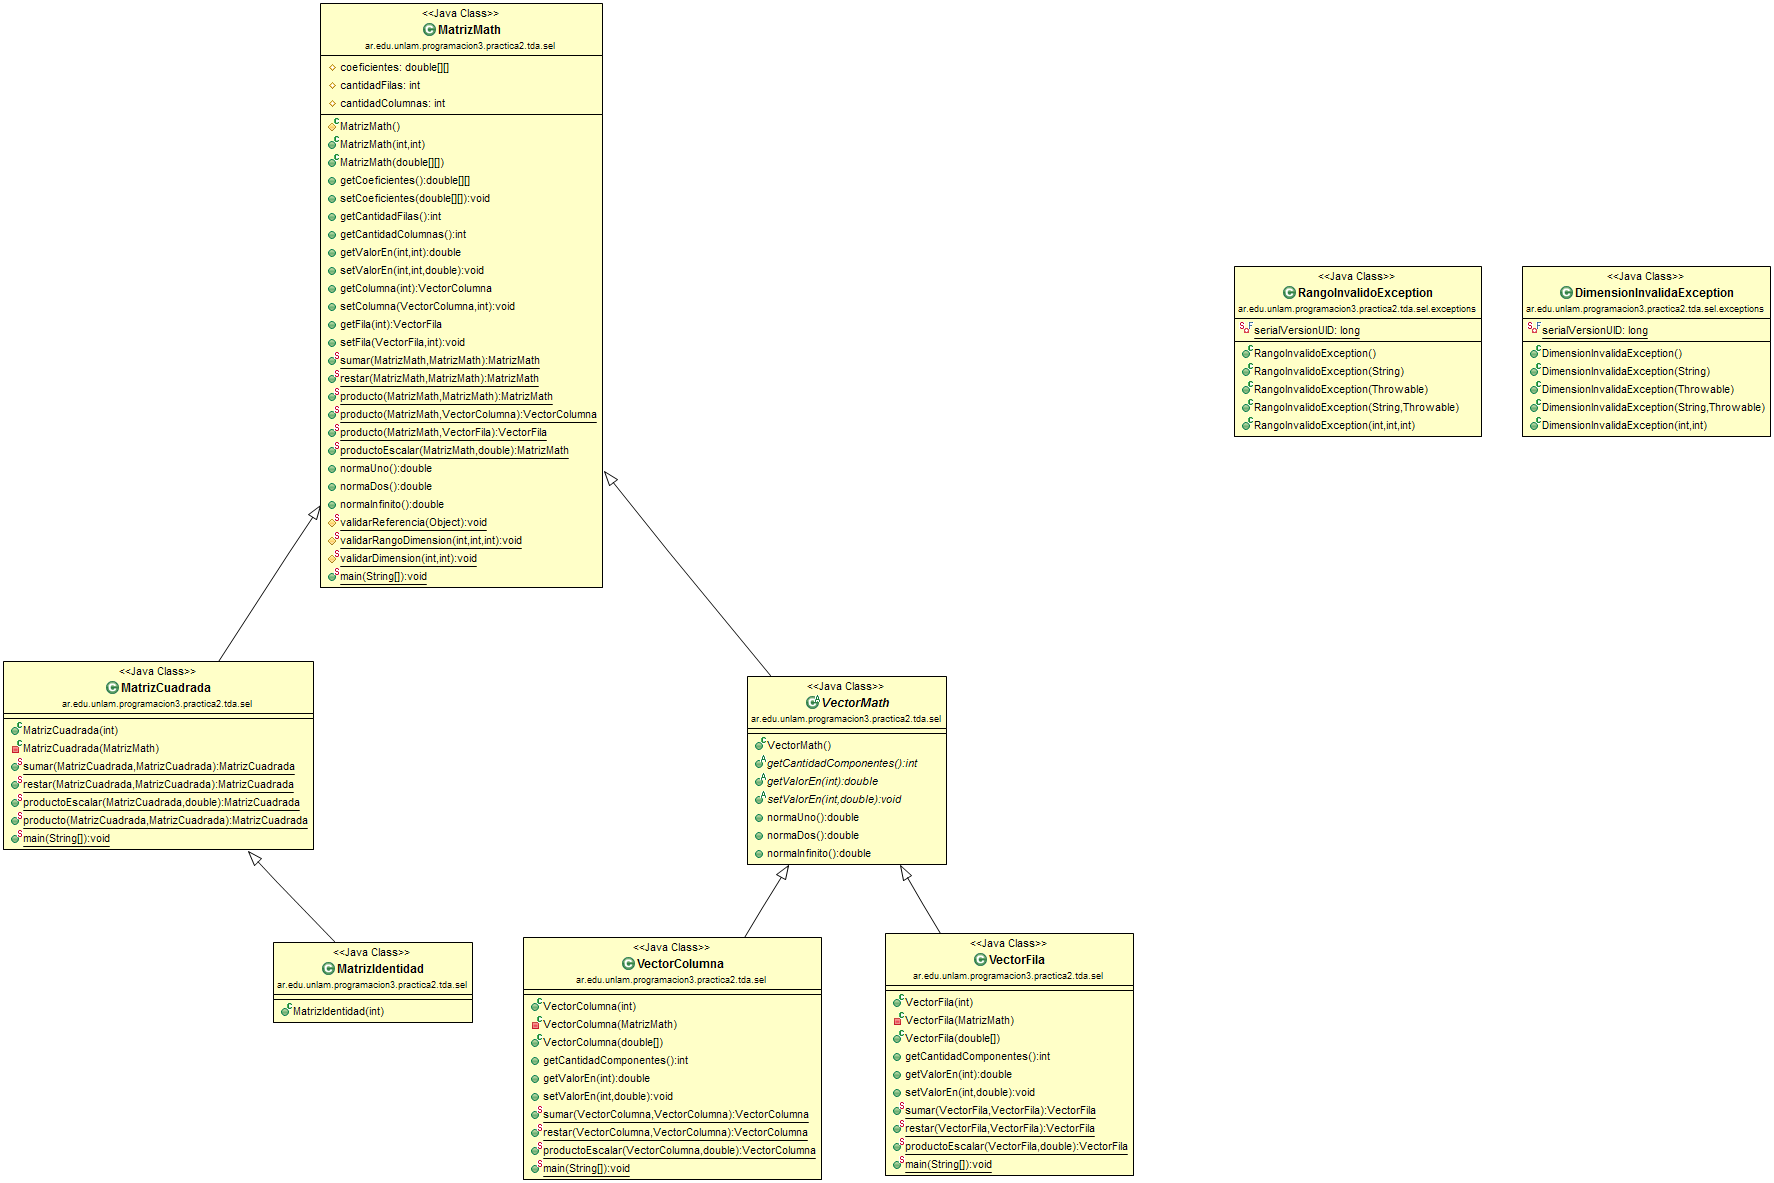
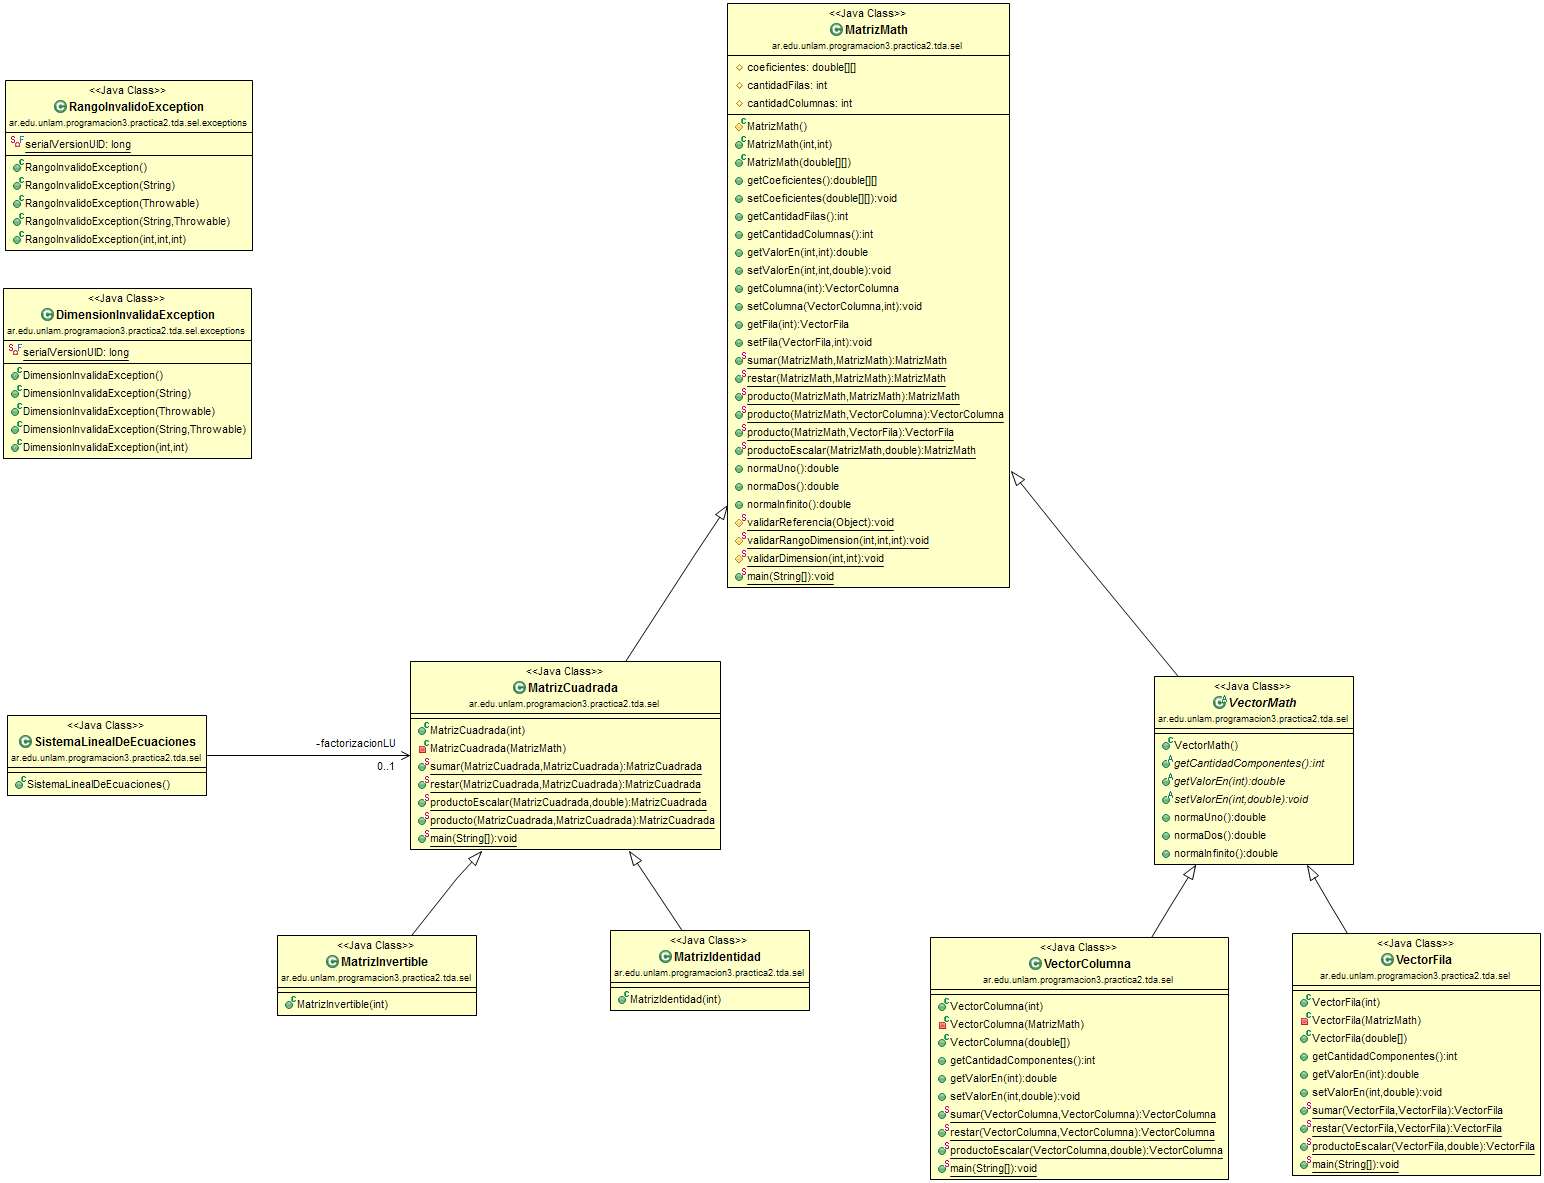
Iniciada la etapa final de SEL. Creadas las clases que van a ser necesarias para IO, inversión y resolución de SEL. Actualizado el diagrama UML.

diff --git a/practica2/trunk/TDAs/src/ar/edu/unlam/programacion3/practica2/tda/sel/MatrizInvertible.java b/practica2/trunk/TDAs/src/ar/edu/unlam/programacion3/practica2/tda/sel/MatrizInvertible.java
@@ -1,0 +1,9 @@
+package ar.edu.unlam.programacion3.practica2.tda.sel;
+
+public class MatrizInvertible extends MatrizCuadrada {
+
+	public MatrizInvertible(int dimension) {
+		super(dimension);
+	}
+
+}

diff --git a/practica2/trunk/TDAs/src/ar/edu/unlam/programacion3/practica2/tda/sel/util/SerializadorDeSEL.java b/practica2/trunk/TDAs/src/ar/edu/unlam/programacion3/practica2/tda/sel/util/SerializadorDeSEL.java
@@ -1,0 +1,9 @@
+package ar.edu.unlam.programacion3.practica2.tda.sel.util;
+
+public class SerializadorDeSEL {
+
+	public static void main(String[] args) {
+		
+	}
+
+}

diff --git a/practica2/trunk/TDAs/src/ar/edu/unlam/programacion3/practica2/tda/sel/SistemaLinealDeEcuaciones.java b/practica2/trunk/TDAs/src/ar/edu/unlam/programacion3/practica2/tda/sel/SistemaLinealDeEcuaciones.java
@@ -1,0 +1,7 @@
+package ar.edu.unlam.programacion3.practica2.tda.sel;
+
+public class SistemaLinealDeEcuaciones {
+
+	private MatrizCuadrada factorizacionLU;
+	
+}
